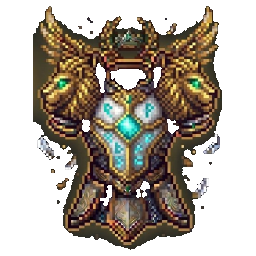
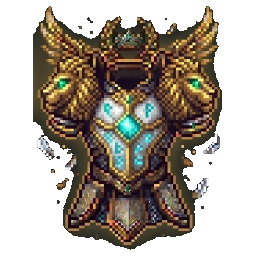
Thần Điện: sửa giáp và nhẫn (lấp vùng tối trong thân, khoét lòng nhẫn đủ 2 phía)
Claude-Session: https://claude.ai/code/session_01GJW6jKuH1h1PsySfFu8paj

diff --git a/tools/cut_eq_icons.py b/tools/cut_eq_icons.py
@@ -21,7 +21,9 @@ PRESETS = {
     'linh-hoa-vien': dict(bg=(26, 29, 36), thr=100, min_area=12, ring_seed=(210, 990), ring_hole_thr=125,
                           regions=[('vukhi', 0, 0, 456, 600), ('giap', 456, 0, 896, 600),
                                    ('vong', 0, 600, 420, 1200), ('ngoc', 420, 600, 896, 1100)]),
-    'than-dien': dict(bg=(25, 28, 35), thr=40, min_area=6, close_r=3, hole_max=400, ring_seed=(215, 1010), ring_hole_thr=125,
+    'than-dien': dict(bg=(25, 28, 35), thr=40, min_area=6, close_r=3, hole_max=400,
+                      ring_seed=[(240, 935), (215, 1030)], ring_hole_thr=125,
+                      body={'giap': (10, 9000), 'vong': (8, 1500)},
                       regions=[('vukhi', 0, 0, 462, 600), ('giap', 462, 0, 896, 600),
                                ('vong', 0, 600, 422, 1200), ('ngoc', 422, 600, 896, 1100)]),
 }
@@ -60,6 +62,19 @@ for name, x0, y0, x1, y1 in P['regions']:
     m = np.isin(lab, keep)
     pad = CLOSE_R + 2                               # đóng khe nứt (có đệm để không dính mép ảnh)
     m = ndi.binary_closing(np.pad(m, pad), structure=close_se)[pad:-pad, pad:-pad]
+    body_r, body_hole = P.get('body', {}).get(name, (0, 0))   # (bán kính đóng, lỗ tối đa) CHỈ cho thân chính: lấp vùng tối gần màu nền nằm trong thân
+    if body_r:
+        se_ = np.hypot(*np.mgrid[-body_r:body_r + 1, -body_r:body_r + 1]) <= body_r
+        pad_ = body_r + 2
+        body = ndi.binary_closing(np.pad(lab == main, pad_), structure=se_)[pad_:-pad_, pad_:-pad_]
+        hl_, hn2_ = ndi.label(~body)
+        if hn2_:
+            hs2_ = ndi.sum(~body, hl_, range(1, hn2_ + 1))
+            out2_ = {hl_[0, 0], hl_[0, -1], hl_[-1, 0], hl_[-1, -1]}
+            for i_, a_ in enumerate(hs2_, 1):
+                if a_ <= body_hole and i_ not in out2_:
+                    body |= hl_ == i_
+        m |= body
     holes_, hn_ = ndi.label(~m)                     # lấp lỗ kín (khe nứt/lem trắng); riêng lòng nhẫn khoét lại sau
     if hn_:
         hs_ = ndi.sum(~m, holes_, range(1, hn_ + 1))
@@ -71,8 +86,12 @@ for name, x0, y0, x1, y1 in P['regions']:
         low = np.zeros_like(fg); low[y0:y1, x0:x1] = (dd <= P['ring_hole_thr'])[y0:y1, x0:x1]
         core = ndi.binary_opening(low, structure=disk)     # mở để cắt cầu nối, lấy khối chứa tâm lòng, nở lại
         cl, _ = ndi.label(core)
-        sx, sy = P['ring_seed']
-        hole = ndi.binary_dilation(cl == cl[sy, sx], structure=disk) & low
+        seeds = P['ring_seed'] if isinstance(P['ring_seed'], list) else [P['ring_seed']]
+        pick = np.zeros_like(low)
+        for sx, sy in seeds:
+            if cl[sy, sx]:
+                pick |= cl == cl[sy, sx]
+        hole = ndi.binary_dilation(pick, structure=disk) & low
         hole = ndi.binary_fill_holes(ndi.binary_opening(hole, structure=disk))   # làm mượt mép lòng nhẫn
         m &= ~hole
     ys, xs = np.where(m)
